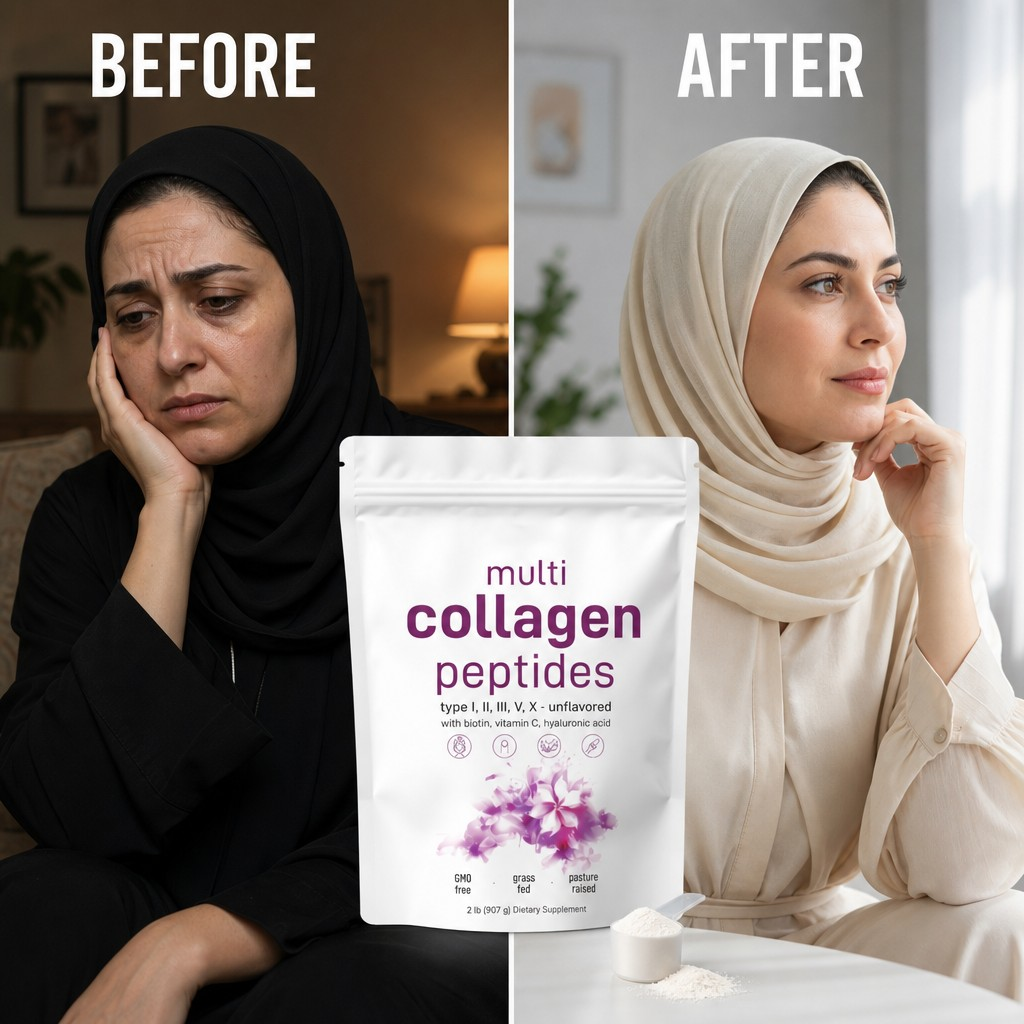
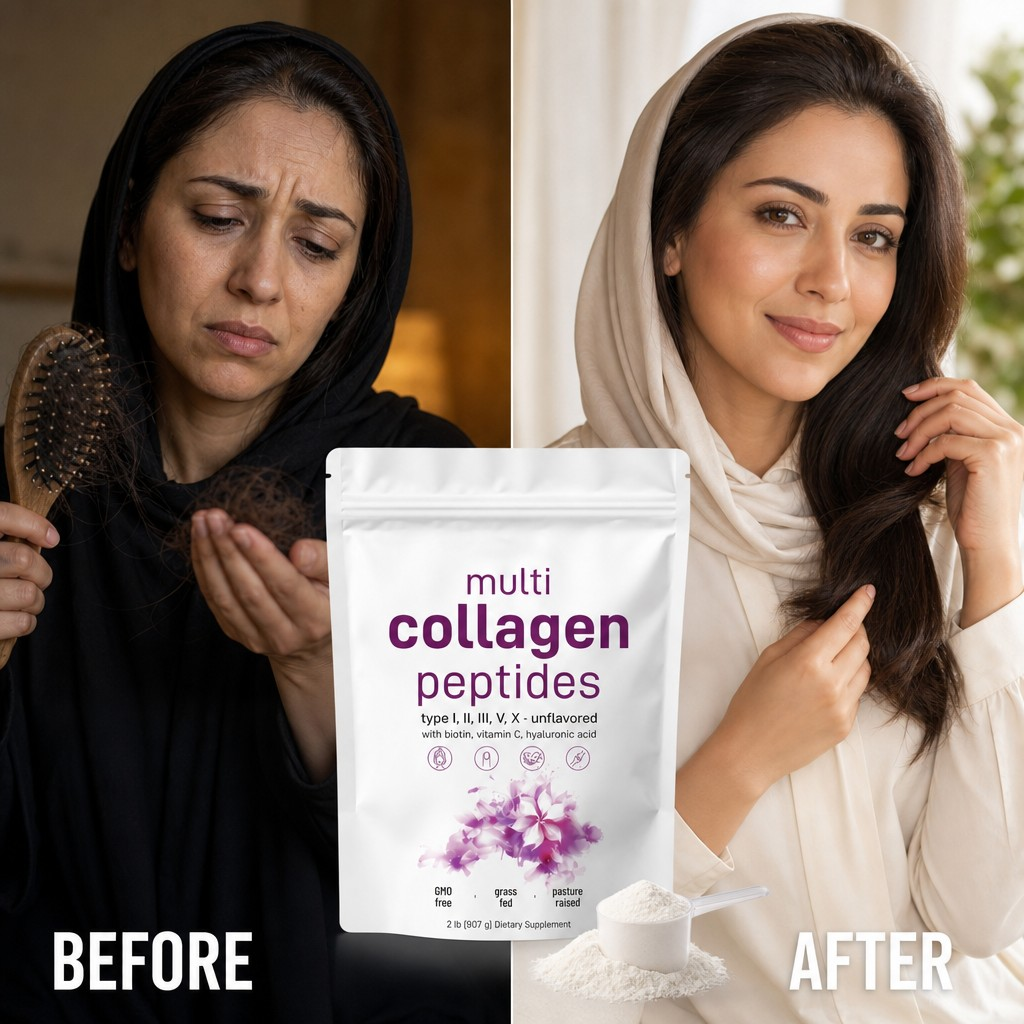
Refresh Naseej PDP hair and skin product images

diff --git a/lib/products.ts b/lib/products.ts
@@ -972,13 +972,13 @@ const ALL_PRODUCTS: Product[] = [
       src: '/products/naseej-powder-hero.png',
       width: 1024,
       height: 1024,
-      alt: 'نسيج — دعم التجاعيد والشعر والبشرة والأظافر من الداخل مع مسحوق الكولاجين المتعدد',
+      alt: 'نسيج — قبل وبعد: من تساقط وشعر ضعيف وبشرة متعبة إلى شعر أقوى وبشرة أنعم مع عبوة الكولاجين',
     },
     painSectionImage: {
       src: '/products/naseej-powder-pain.png',
       width: 1024,
       height: 1024,
-      alt: 'إحساس التعب والتجاعيد والبشرة الباهتة — المكمّل يدعم الروتين من الداخل وليس علاجاً طبياً',
+      alt: 'امرأة أمام المرآة بفرشاة مليانة شعر وهالات وتعب — مشكلة التساقط والبشرة من الداخل',
     },
     ingredientsSectionImage: {
       src: '/products/naseej-powder-ingredients.png',
@@ -990,40 +990,46 @@ const ALL_PRODUCTS: Product[] = [
       src: '/products/naseej-powder-lifestyle.png',
       width: 1024,
       height: 1024,
-      alt: 'نسيج على طاولة الحمام — روتين يومي للتجاعيد والشعر والبشرة والأظافر من الداخل',
-      titleAr: 'أربعة أهداف… مكيال واحد يثبت',
+      alt: 'نسيج على طاولة الحمام مع مكيال وماء — روتين يومي للشعر والبشرة من الداخل',
+      titleAr: 'الشعر والبشرة يبدأان من روتين مكيال يومي',
       bodyAr:
-        'كل يوم: مكيال واحد — كولاجين متعدد + هيالورونيك + فيتامين C + بيوتين. يدعم مقاومة التجاعيد من الداخل، تغذية الشعر، إشراق البشرة، وقوة الأظافر. مو وعد سحري؛ روتين واضح. الجرعة على الغلاف، والنتيجة تعتمد على الالتزام والجسم.',
+        'كل صباح أو مع وجبة: مكيال واحد — كولاجين متعدد + هيالورونيك + فيتامين C + بيوتين — يذوب في الماء ويكمل عنايتك من الداخل. مو وعد شدّ فوري؛ روتين واضح للشعر والبشرة. الجرعة على الغلاف، والنتيجة تعتمد على الالتزام والجسم.',
     },
-    captionUnderHeroImage: 'مكيال يومي: تجاعيد · شعر · بشرة · أظافر من الداخل — الجرعة على الغلاف.',
+    captionUnderHeroImage: 'مكيال يومي لدعم الشعر والبشرة من الداخل — مو وعد عيادة. الجرعة على الغلاف.',
     copyAfterHeroPrice: 'اختاري عبوة أو عرض شهرين/ثلاثة — السعر كامل قبل التأكيد.',
     persuasionBlock: {
       eyebrowAr: 'المشكل الحقيقي',
-      titleAr: 'الكريمات من برّا… والتجاعيد والشعر من جوّا',
+      titleAr: 'فرشاة مليانة… وبشرة ما تمسك نفسها',
       bodyAr:
-        'تشوفين خطوط أدق، شعر أضعف، بشرة باهتة، وأظافر تتكسر — وتكدّسين سيرومات وصبغات ومقوّيات. أحياناً الأساس ناقص من الداخل: الكولاجين والروتين الغذائي. نسيج مسحوق كولاجين متعدد الأنواع + هيالورونيك + فيتامين C + بيوتين — زاوية شاملة من جوّا: مقاومة التجاعيد، دعم الشعر، إشراق البشرة، وقوة الأظافر. مكمّل غذائي؛ النتيجة تدريجية مع الالتزام.',
+        'تشوفين شعر على الفرشاة والوسادة، والوجه تحت المكياج يبيّن باهت أو مرتخي؟ أحياناً المشكل مو شامبو ولا سيروم فقط — الكولاجين والنسيج من الداخل. نسيج: كولاجين متعدد الأنواع + هيالورونيك + فيتامين C + بيوتين بمكيال يومي في الماء.',
       bullets: [
-        'مقاومة التجاعيد من الداخل — مو «مسح خطوط بليلة».',
-        'دعم تغذية الشعر وكثافته ضمن الروتين اليومي.',
-        'إشراق ونضارة البشرة — مظهر أوضح مع الوقت.',
-        'أظافر أقوى وأقل تكسيراً مع الاستمرار.',
-        '4–8 أسابيع التزام أهم من توقع معجزة أسبوع.',
+        'الهدف: دعم الشعر والبشرة من الداخل — مو معجزة ليلة.',
+        '5 أنواع كولاجين + هيالورونيك — بنية وترطيب أعمق الشعور.',
+        'فيتامين C يكمّل مسار الكولاجين ضمن أكل متوازن.',
+        'بيوتين دعم إضافي للشعر والأظافر.',
+        '4–8 أسابيع التزام أهم من توقع نتيجة فورية.',
       ],
+      sectionImage: {
+        src: '/products/naseej-powder-mix.png',
+        width: 1024,
+        height: 1024,
+        alt: 'خلط مكيال نسيج في كوب ماء — روتين يومي بسيط للشعر والبشرة',
+      },
     },
     closingPersuasion: {
-      eyebrowAr: 'قرار اليوم',
-      titleAr: 'تجاعيد + شعر + بشرة + أظافر؟ ابدئي بنسيج',
+      eyebrowAr: 'قرار واضح',
+      titleAr: 'حسّيتي إن وجهك «فقد شدّته»؟ ابدئي بنسيج',
       bodyAr:
-        'نسيج مسحوق كولاجين لروتين الجمال من الداخل بأربعة محاور واضحة. رونق C علكة بيوتين صباحية — تقدرين تبدئين بواحد أو تجمعين لاحقاً.',
+        'رونق C = علكة بيوتين للتجاعيد والبشرة والشعر. نسيج = مسحوق كولاجين لقوام الوجه من الداخل. زاويتان مختلفتان — خذي اللي يمسّ مشكلتك، أو اجمعيهما لاحقاً.',
       bullets: [
-        'نسيج لو تبين مكيال كولاجين شامل من الداخل.',
-        'رونق C لو تبين علكة بيوتين صباحية خفيفة.',
+        'نسيج أولاً لو المشكل ارتخاء وقوام ضايع تحت المكياج.',
+        'رونق C لو تبين روتين علكة صباحي للبشرة والتجاعيد.',
         'حوامل ومرضعات وأمراض مزمنة: استشارة قبل أي مكمّل.',
       ],
     },
     afterReviewsBanner: {
-      titleAr: 'من الداخل للتجاعيد والشعر والبشرة والأظافر',
-      bodyAr: 'ثبّتي المكيال أولاً — وإن حبيتي علكة صباحية شوفي رونق C تحت «كمّلي السلة».',
+      titleAr: 'قوام من الداخل… وبيوتين من الصباح',
+      bodyAr: 'كثير يبدأن بنسيج ثم يضيفن رونق C — شوفي «كمّلي السلة» تحت.',
     },
     ingredients: [
       'كولاجين متعدد (I · II · III · V · X)',
@@ -1032,17 +1038,17 @@ const ALL_PRODUCTS: Product[] = [
       'بيوتين',
     ],
     benefits: [
-      'يدعم مقاومة التجاعيد والخطوط من الداخل مع الالتزام',
-      'يكمّل روتين تغذية الشعر وكثافته',
-      'يساعد على إشراق ونضارة البشرة من جوّا',
-      'يدعم قوة الأظافر وتقليل التكسّر',
-      'كولاجين متعدد + هيالورونيك + فيتامين C + بيوتين في مكيال واحد',
-      'أبسط من كبسولات كثيرة — ذوّبيه يومياً في الماء',
+      'يستهدف ارتخاء الوجه وفقد القوام — مو بس «خطوط دقيقة»',
+      'كولاجين متعدد الأنواع لدعم بنية النسيج من الداخل',
+      'هيالورونيك لإحساس ترطيب أعمق تحت المكياج',
+      'فيتامين C يكمّل مسار الكولاجين مع أكل متوازن',
+      'بيوتين دعم إضافي — مكمّل للزاوية مو بديل العلكة',
+      'مكيال واحد يومياً — أبسط من كبسولات كثيرة',
     ],
     howToUse:
       'مكيال واحد يومياً حسب الغلاف المعتمد — ذوّبيه في ماء أو عصير فاتر (تجنّبي الماء المغلي). لا تتجاوزي الجرعة المكتوبة على العبوة.',
     painCopy:
-      'تعرفين الإحساس؟ خطوط أدق تظهر أسرع، الشعر أخف، البشرة باهتة، والأظافر تتكسر… وتقولين «كل كريم جرّبته». أحياناً المشكل من الداخل: الكولاجين والروتين الغذائي. نسيج مسحوق كولاجين متعدد الأنواع + هيالورونيك + فيتامين C + بيوتين — يدعم مقاومة التجاعيد من جوّا، تغذية الشعر، إشراق البشرة، وقوة الأظافر. مكمّل غذائي؛ مو علاج طبي ولا وعد ليلة واحدة — النتيجة مع الالتزام 4–8 أسابيع غالباً.',
+      'تعرفين الإحساس؟ تفتحين المرآة: الوجه مرتخي، الفونديشن ما يثبت زي أول، والبشرة تحت المكياج «فاضية» — كأن الشدّة راحت. تكدّسين كريمات وسيرومات… والفرق بسيط. أحياناً المشكل مو الطبقة الخارجية: الكولاجين اللي يمسك النسيج من الداخل يضعف مع السنين والتعب. نسيج مسحوق كولاجين متعدد + هيالورونيك + فيتامين C + بيوتين — زاوية قوام وبنية. مختلفة عن علكة رونق C (بيوتين/زنك/D3 للتجاعيد والشعر). مكمّل غذائي؛ مو شدّ عيادة ولا وعد ليلة واحدة.',
     productInfoSheets: [
       {
         titleAr: 'المكونات',
@@ -1052,12 +1058,12 @@ const ALL_PRODUCTS: Product[] = [
       {
         titleAr: 'فترة ظهور النتيجة',
         bodyAr:
-          'تختلف من شخص لآخر. غالباً 4–8 أسابيع استخدام يومي منتظم مع نوم وأكل متوازن قبل ملاحظة فرق في مظهر البشرة أو الشعر أو الأظافر. ليست نتيجة ليلة واحدة.',
+          'تختلف من شخص لآخر. غالباً 4–8 أسابيع استخدام يومي منتظم مع نوم وأكل متوازن قبل ملاحظة فرق في إحساس القوام. ليست نتيجة ليلة واحدة.',
       },
       {
         titleAr: 'لمن؟',
         bodyAr:
-          'لمن تبغى دعم التجاعيد من الداخل، وتغذية الشعر، وإشراق البشرة، وقوة الأظافر ضمن روتين يومي. مو بديل متابعة طبية للجلد أو الشعر.',
+          'لمن تحسّ إن وجهها فقد الشدّة/القوام مع الوقت، أو تبغى دعم كولاجين من الداخل ضمن روتين يومي. مو بديل متابعة طبية للمفاصل أو الجلد.',
       },
       {
         titleAr: 'موانع الاستعمال',
@@ -1073,32 +1079,28 @@ const ALL_PRODUCTS: Product[] = [
     reviews: [
       {
         name: 'هند س.',
-        text: 'حبيت إنه مكيال واحد للتجاعيد والشعر والبشرة. بعد أسابيع حسّيت بشرتي أوضح وشعري أثبت — روتين مو معجزة.',
+        text: 'كنت أحس وجهي فاضي تحت المكياج. بعد أسابيع على المكيال حسّيت القوام أحسن — مو شدّ عيادة، بس فرق يبان.',
         rating: 5,
       },
       {
         name: 'لمى ع.',
-        text: 'الأظافر عندي كانت تتكسر كثير. مع الالتزام فرّق. والبشرة صارت أنضر شوي.',
+        text: 'هذي بودرة كولاجين للقوام — مو نفس العلكة. التزمت شهر ونص والنتيجة تدريجية وواقعية.',
         rating: 5,
       },
       {
         name: 'ريم ك.',
-        text: 'يختلط بسهولة. ما توقعت سحر — توقعت روتين للجمال من الداخل، وهذا اللي صار.',
+        text: 'يختلط بسهولة. ما توقعت معجزة — توقعت روتين يثبت، وهذا اللي صار.',
         rating: 4,
       },
     ],
     faqs: [
       {
-        q: 'وش يستهدف نسيج بالضبط؟',
-        a: 'يدعم من الداخل أربعة محاور: مقاومة التجاعيد، تغذية الشعر، إشراق البشرة، وقوة الأظافر — عبر كولاجين متعدد + هيالورونيك + فيتامين C + بيوتين.',
-      },
-      {
         q: 'ما الفرق بين نسيج ورونق C؟',
-        a: 'نسيج مسحوق كولاجين شامل (تجاعيد/شعر/بشرة/أظافر). رونق C علكة بيوتين + زنك + D3. شكلان مختلفان — تقدرين تختارين واحد أو تجمعين.',
+        a: 'رونق C علكة بيوتين + زنك + D3 لزاوية التجاعيد والبشرة والشعر. نسيج مسحوق كولاجين متعدد + هيالورونيك لزاوية قوام الوجه من الداخل. زاويتان مختلفتان تماماً.',
       },
       {
-        q: 'هل يبيّض البشرة مثل الكريمات الطبية؟',
-        a: 'لا. مكمّل غذائي يدعم الإشراق والنضارة من الداخل — مو كريم تبييض طبي ولا علاج تصبغات.',
+        q: 'هل يشدّ البشرة مثل العيادة؟',
+        a: 'لا. مكمّل غذائي فقط — مو فيلر ولا إجراء تجميلي. يدعم الروتين من الداخل بدون ادّعاء شدّ طبي.',
       },
       {
         q: 'كيف أخلطه؟',
@@ -1153,7 +1155,7 @@ export function getBestUpsell(cartProductIds: string[]): Product | null {
   const all = PRODUCTS.filter(isProductAvailable).map((p) => p.id)
   const missing = all.filter((id) => !cartProductIds.includes(id))
   if (missing.length === 0) return null
-  // رونق C ↔ نسيج (علكة ↔ مسحوق كولاجين شامل) — ثم شهر هادئ.
+  // رونق C ↔ نسيج (علكة بيوتين ↔ مسحوق كولاجين للتماسك) — ثم شهر هادئ.
   if (cartProductIds.includes('rawnaq-c') && missing.includes('naseej')) return getProductById('naseej') ?? null
   if (cartProductIds.includes('naseej') && missing.includes('rawnaq-c')) return getProductById('rawnaq-c') ?? null
   if (cartProductIds.includes('rawnaq-c') && missing.includes('shahr-hadi')) return getProductById('shahr-hadi') ?? null
